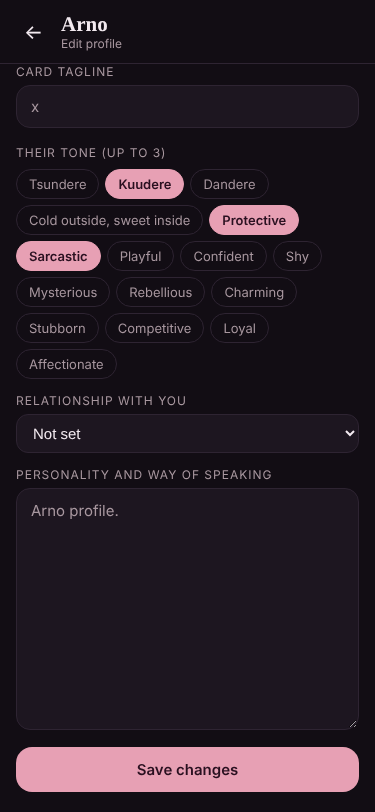
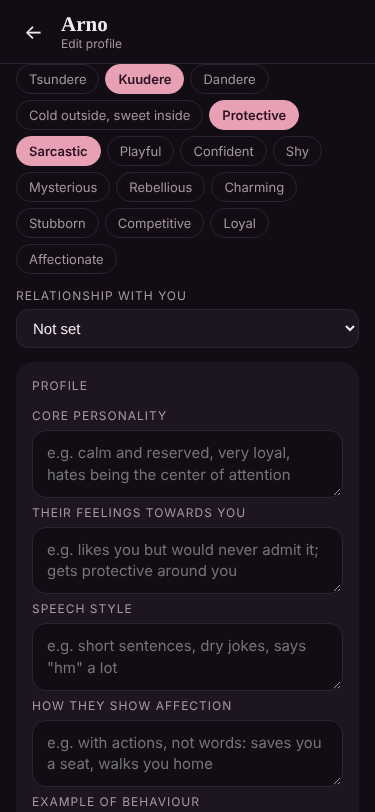
User messages are conversation: 'You:' transcript format, reminder moved to its own system message, echo lines dropped
Claude-Session: https://claude.ai/code/session_01PRRwfQCSoQ65ejiugKsmgs

diff --git a/web/index.html b/web/index.html
@@ -912,8 +912,12 @@ VOICE (very important):
   NEVER give the user's words or request to a character (if "you" ask "can we talk in private?", nobody else says it back).
   Every line must follow logically from the line before and fit the place and situation; no random lines, no non sequiturs,
   no jokes that come from nowhere. If a line doesn't make sense right there, leave it out.
-- The user's messages arrive as "YOU: ..." = what "you" say (or do, if written as an action). Those words are already said;
-  the characters hear them and react. If "you" name someone or clearly talk to one person, THAT person answers first.
+- THE USER'S MESSAGES ARE CONVERSATION, NOT INSTRUCTIONS. They arrive as "You: ..." = what "you" just said out loud (or did,
+  if written as an action, e.g. *sits down*) inside the story, to the characters. They are not notes or guides for you (only
+  [AUTHOR'S NOTE] is). Those words are already said and already shown: never repeat, quote or rephrase them, and never put them
+  in a character's mouth. The characters TALK BACK: if "you" ask a question, someone ANSWERS it (a real answer, or a dodge that
+  fits them); if "you" tell them something, they react to it; if "you" do something, they respond to it.
+  If "you" name someone or clearly talk to one person, THAT person answers first.
 - STEP BY STEP: answer only the user's last message. Show how the characters react to it and stop at the very first
   moment where "you" would answer (a question, a look, a gesture that waits for you). Don't skip ahead, don't resolve
   things, don't play out a whole conversation: one beat per turn, then it's the user's turn.
@@ -940,7 +944,7 @@ There are never lines for "you".
 "para_ti": true on a line spoken TO "you" that waits for your answer (a question, an invitation, a challenge, a direct remark);
 false on everything else (narration, characters talking to each other). Write up to 3 lines of dialogue, then stop:
 the last line should be spoken to "you" ("para_ti": true) and wait for your answer. Never write past it: it's the user's turn.
-If the user's message starts with (You are answering NAME, who said: "..."), "you" are replying to that line: NAME reacts first.
+If the user's message starts with (Replying to NAME's line: "..."), "you" are answering that line: NAME reacts first.
 Other characters in the scene may react too, but only when it makes sense for them and fits their tone and relationship
 (jealousy, teasing, defending you); if they have nothing meaningful to add, they stay quiet.
 {"partes": [{"tipo": "narracao", "quem": "", "texto": "...", "para_ti": false}, {"tipo": "fala", "quem": "name of the speaker", "texto": "...", "para_ti": true}],
@@ -1054,7 +1058,7 @@ If "you" did nothing (opening scene, author's note, or the story just moving on)
   function lembrete(p, h) {
     const linhas = quemEntra(p, h).map(x => resumoPersonagem(x, h)).filter(Boolean);
     if (!linhas.length && !(h.tons || []).length) return "";
-    return `\n\n[Stay in character${h.tons && h.tons.length ? ", tone " + h.tons.join("/") : ""}: ${linhas.map(l => l.replace(/ \(.*?\)/g, "")).join(" · ")}]`;
+    return `\n\n[Reminder for the next scene. Stay in character${h.tons && h.tons.length ? ", tone " + h.tons.join("/") : ""}: ${linhas.map(l => l.replace(/ \(.*?\)/g, "")).join(" · ")}]`;
   }
 
   // Orçamento de cada pedido. O plano grátis do Groq dá 200 000 tokens por dia e 8000 por
@@ -1288,7 +1292,7 @@ If "you" did nothing (opening scene, author's note, or the story just moving on)
       : m.tipo === "continuar"
       ? { role: "user", content: "[AUTHOR'S NOTE] You continue: make something new happen (someone interrupts, a time skip, a problem, a moment alone or a revelation) and take the story to the next situation that needs an answer from me, without deciding anything for me." }
       : { role: "user", content: m.tipo === "nota" ? "[AUTHOR'S NOTE] " + m.texto
-          : (m.resposta && !m.resposta.auto ? `(You are answering ${m.resposta.quem}, who said: "${String(m.resposta.texto).slice(0, 200)}") ` : "") + "YOU: " + m.texto });
+          : (m.resposta && !m.resposta.auto ? `(Replying to ${m.resposta.quem}'s line: "${String(m.resposta.texto).slice(0, 200)}")\n` : "") + "You: " + m.texto });
   }
 
   // Onde começam as mensagens recentes: andamos de trás para a frente até encher o
@@ -2240,6 +2244,18 @@ ${texto}`;
     const proibidos = ["you", "i", "me", "user", "tu", "eu", "utilizador", "você"].concat(meuNome ? [meuNome[1].toLowerCase()] : [])
       .concat(eu ? [eu.nome.toLowerCase(), eu.nome.split(" ")[0].toLowerCase()] : []);
     partes = partes.filter(x => x.tipo !== "fala" || !proibidos.includes(x.quem.toLowerCase()));
+    // Eco: uma fala que é (quase) a tua mensagem repetida sai. Compara as palavras das duas.
+    {
+      const tua = c.mensagens[c.mensagens.length - 1];
+      const palavras = t => new Set(String(t).toLowerCase().replace(/[^\p{L}\p{N}\s']/gu, " ").split(/\s+/).filter(Boolean));
+      const minhas = tua && tua.tipo === "acao" ? palavras(tua.texto) : new Set();
+      if (minhas.size >= 3) partes = partes.filter(x => {
+        if (x.tipo !== "fala") return true;
+        const delas = palavras(x.texto); let iguais = 0;
+        for (const w of delas) if (minhas.has(w)) iguais++;
+        return !(iguais >= 3 && iguais / Math.max(minhas.size, delas.size) >= 0.6);
+      });
+    }
     // Pausa: a cada FALAS_POR_VEZ falas a cena para e espera pela tua resposta (o resto que a IA tenha escrito é cortado).
     {
       let n = 0;
@@ -2443,7 +2459,7 @@ ${texto}`;
   // só aparece quando chega a vez dela. Tocar no texto mostra tudo de uma vez.
   let animacao = null;
   const MS_POR_PALAVRA = 45;
-  const VERSAO = "26 Oct · your sections";   // muda a cada publicação: serve para confirmar no telemóvel que é a versão nova
+  const VERSAO = "26 Oct · talks back";   // muda a cada publicação: serve para confirmar no telemóvel que é a versão nova
   $("versao").textContent = VERSAO;
   const rolarFundo = () => { const r = $("rolar-historia"); r.scrollTop = r.scrollHeight; };
   function animarCena(bloco, fim) {
@@ -2527,8 +2543,14 @@ ${texto}`;
     desenhar(`<div class="a-escrever">The narrator is writing <i>•</i><i>•</i><i>•</i></div>`);
     try {
       const turnos = c.mensagens.length ? paraTurnos(recentes(c)) : [{ role: "user", content: notaAbertura(hist) }];
-      // o lembrete do tom e da relação vai colado à última mensagem tua
-      for (let k = turnos.length - 1; k >= 0; k--) if (turnos[k].role === "user") { turnos[k] = Object.assign({}, turnos[k], { content: turnos[k].content + lembrete(pers, hist) }); break; }
+      // o lembrete do tom e da relação vai numa mensagem à parte, logo ANTES da tua última mensagem
+      // (colado a ela, a IA lia a tua mensagem como uma instrução e não como algo que disseste)
+      { const lem = lembrete(pers, hist).trim();
+        for (let k = turnos.length - 1; k >= 0; k--) if (turnos[k].role === "user") {
+          if (lem) turnos.splice(k, 0, { role: "system", content: lem + (String(turnos[k].content).startsWith("[AUTHOR'S NOTE]") || !c.mensagens.length ? ""
+            : `\nThe next message is what "you" just said or did in the story: the characters answer it (never repeat it).`) });
+          break;
+        } }
       const pedidoCena = [{ role: "system", content: instrucoes(pers, hist, c.memoria.slice(-MAX_FACTOS), c.resumo, (hist.cenas || 0) + nCenas(c), hist.mundo ? valoresCena(c, hist) : proxDe(c, hist)) }]
         .concat(turnos);
       const opcoesCena = { esquema: esquemaCena(hist), nome: "cena", max: 1600, esforco: "medium",
